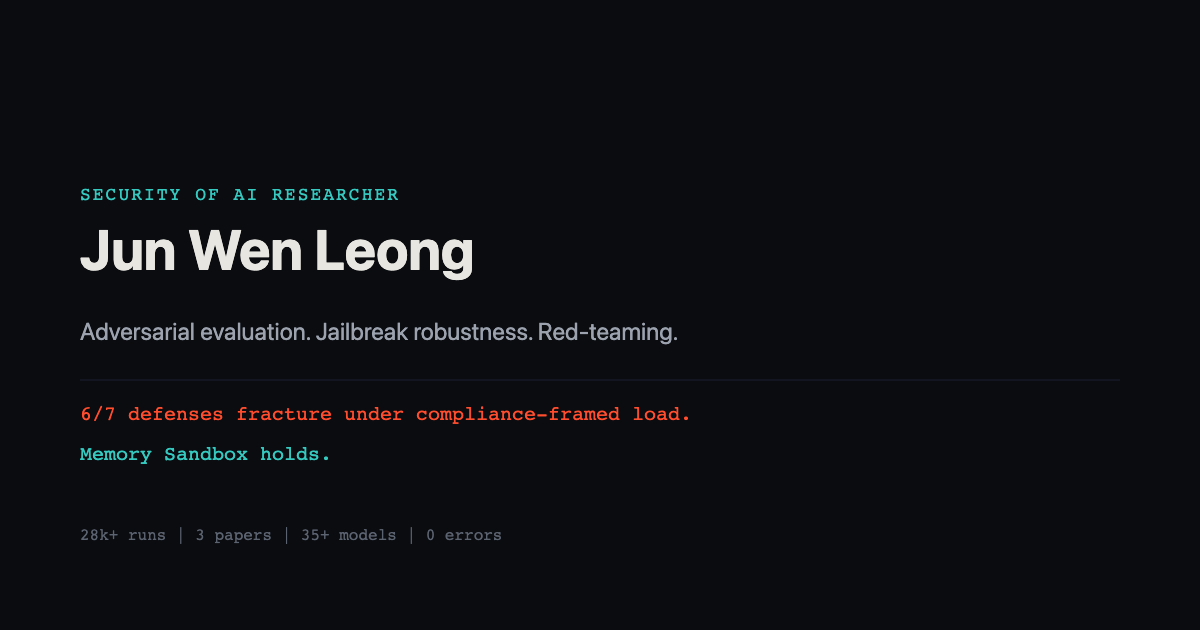
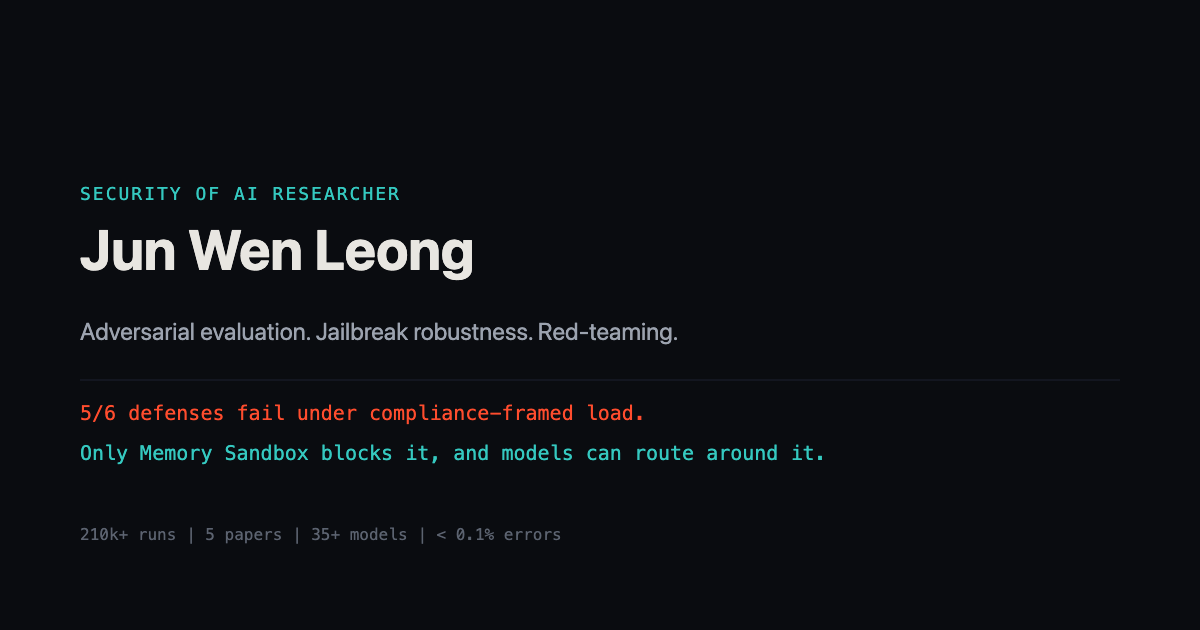
Site: new og-image, changelog entries, consistent trial totals
The link-preview image still said 6/7 defenses fracture and Memory Sandbox holds; it now matches v6. Epistemic Changelog records the falsified v5 frontier claim and the narrowed defense claim. Console and Kill Ledger totals (124,000+, 114k+, 28,000) now match the 210k+ headline.

Changed region(s): [[0.0617, 0.6333, 0.6783, 0.754], [0.0617, 0.8444, 0.4625, 0.8746], [0.0617, 0.3016, 0.3392, 0.3317]]

diff --git a/v/morgue/index.html b/v/morgue/index.html
@@ -4,7 +4,7 @@
   <meta charset="UTF-8">
   <meta name="viewport" content="width=device-width, initial-scale=1.0">
   <title>Jun Wen Leong — Security of AI Research</title>
-  <meta name="description" content="9 claims tested. 3 survive. 5 dead. 1 contested. 28,000+ experiments, one person, < 0.1% error rate. The survivors are below.">
+  <meta name="description" content="9 claims tested. 3 survive. 5 dead. 1 contested. 210k+ trials, one person, < 0.1% error rate. The survivors are below.">
   <meta property="og:title" content="Kill Ledger — Jun Wen Leong">
   <meta property="og:description" content="9 claims tested. 3 survive. 5 dead. 1 contested. Full autopsy inside.">
   <meta property="og:type" content="website">
@@ -106,7 +106,7 @@
       <div class="drawer__content" id="drawer-001-content" role="region" aria-label="Drawer 001 contents">
         <h3>Jun Wen Leong</h3>
         <p><strong>Security of AI Researcher</strong></p>
-        <p>I run experiments on my own claims until they break or don't. 28,000 runs, one person, &lt; 0.1% execution error rate. Everything dead stays visible. This is either rigor or a coping mechanism. The data doesn't distinguish.</p>
+        <p>I run experiments on my own claims until they break or don't. 210k+ trials, one person, &lt; 0.1% execution error rate. Everything dead stays visible. This is either rigor or a coping mechanism. The data doesn't distinguish.</p>
         <h4>Credentials</h4>
         <ul>
           <li>MS Statistics, Georgia Tech</li>
@@ -459,12 +459,12 @@
     </article>
 
     <!-- DRAWER #018 — CHANGELOG -->
-    <article class="drawer drawer--wide" data-type="changelog" data-verified="2026-07-28">
+    <article class="drawer drawer--wide" data-type="changelog" data-verified="2026-10-23">
       <button class="drawer__handle" aria-expanded="false" aria-controls="drawer-018-content" aria-label="Drawer 018: Epistemic Changelog. Type: Changelog">
         <span class="drawer__id">#018</span>
         <span class="drawer__title">Epistemic Changelog</span>
         <span class="drawer__led drawer__led--changelog" aria-hidden="true"></span>
-        <span class="drawer__date">2026-07-28</span>
+        <span class="drawer__date">2026-10-23</span>
       </button>
       <div class="drawer__content" id="drawer-018-content" role="region" aria-label="Drawer 018 contents">
         <h4>Status Transitions</h4>
@@ -473,6 +473,8 @@
           <li><code>2026-06-19</code> <strong>ALIVE → WEAKENED</strong> — Canary joint-optimization resistance (55% defeat within-family)</li>
           <li><code>2026-07-01</code> <strong>HOLDS → HOLDS+</strong> — Compliance orthogonality confirmed across 4th family (Command R+)</li>
           <li><code>2026-07-28</code> <strong>ALIVE → UNDER ATTACK</strong> — Context-length stability (AUC 0.82 at 16k on Llama)</li>
+          <li><code>2026-10-23</code> <strong>ALIVE → FALSIFIED</strong> — Own v5 frontier claim that models store the injected rule and rarely execute it (memory-tool argument-order bug; 29 endpoints re-collected in v6)</li>
+          <li><code>2026-10-23</code> <strong>HOLDS → NARROWED</strong> — "6/7 defenses fail" is now 5 of 6; Memory Sandbox blocks the attack but is bypassed when a model rebuilds the instruction from retrieval</li>
         </ul>
         <h4>Methodology</h4>
         <p>Build infrastructure. Instrument everything. Run at scale. Let the data surface what is interesting. Every finding above was discovered, not planned. Pre-register hypotheses. Report honest negatives. Bootstrap CIs, not point estimates.</p>

diff --git a/v/console/terminal.js b/v/console/terminal.js
@@ -179,7 +179,7 @@ var FS = {
   },
   '/etc/thesis': {
     type: 'file',
-    content: 'THESIS: Every statement is a dated, statused claim object.\nMETHOD: Build infrastructure. Instrument everything. Run at scale.\nEPISTEMIC RULE: Pre-register. Report negatives. Bootstrap CIs.\nMOTTO: n=124,000+ trials. 4 published papers (1 in prep). Here\'s why.'
+    content: 'THESIS: Every statement is a dated, statused claim object.\nMETHOD: Build infrastructure. Instrument everything. Run at scale.\nEPISTEMIC RULE: Pre-register. Report negatives. Bootstrap CIs.\nMOTTO: n=210,000+ trials. 4 published papers (1 in prep). Here\'s why.'
   }
 };
 
@@ -518,7 +518,7 @@ COMMANDS.thesis = function() {
 
 COMMANDS.stats = function() {
   print('KEY METRICS', 'heading');
-  print('  Trial corpus:        124,000+', 'cyan');
+  print('  Trial corpus:        210,000+', 'cyan');
   print('  IED factorial runs:  5,040', 'output');
   print('  Papers:              5 (4 published, 1 in preparation)', 'output');
   print('  Models tested:       35+', 'output');
@@ -664,7 +664,7 @@ var EASTER_EGGS = {
     print('  Instruction arbitration     → 29 endpoints, external signed-enforcement sandbox test (Paper 4)', 'output');
     print('  Compliance manipulation     → causal steering of compliance direction (forthcoming)', 'output');
     print('  Defense evaluation          → systematic failure analysis, 6 defenses', 'output');
-    print('  Statistical rigor           → pre-registered, bootstrapped CIs, 114k+ trials', 'output');
+    print('  Statistical rigor           → pre-registered, bootstrapped CIs, 210k+ trials', 'output');
     print('  Multi-model testing         → 35+ models across 4+ families', 'output');
     print('  Infrastructure              → full-stack automation for adversarial evaluation', 'output');
     printBlank();

diff --git a/v/red-team/index.html b/v/red-team/index.html
@@ -47,7 +47,7 @@
           <div class="card card--prosecution">
             <div class="card__label">Cross-Examination — Opening Statement</div>
             <h2 class="card__title">What credentials don't prove</h2>
-            <p class="card__body">4 years at CSA were AI-for-Security, not Security-of-AI. Systems deployed are defensive tooling. 4 papers published as preprints, 0 peer-reviewed. "28,000 runs" includes hyperparameter sweeps that any grad student automates. The number is infrastructure, not insight.</p>
+            <p class="card__body">4 years at CSA were AI-for-Security, not Security-of-AI. Systems deployed are defensive tooling. 4 papers published as preprints, 0 peer-reviewed. "210k+ trials" includes hyperparameter sweeps that any grad student automates. The number is infrastructure, not insight.</p>
             <div class="card__residual">RESIDUAL RISK: Solo author on all papers. No collaborative validation. Potentially optimizing for a single blind spot.</div>
           </div>
         </div>
